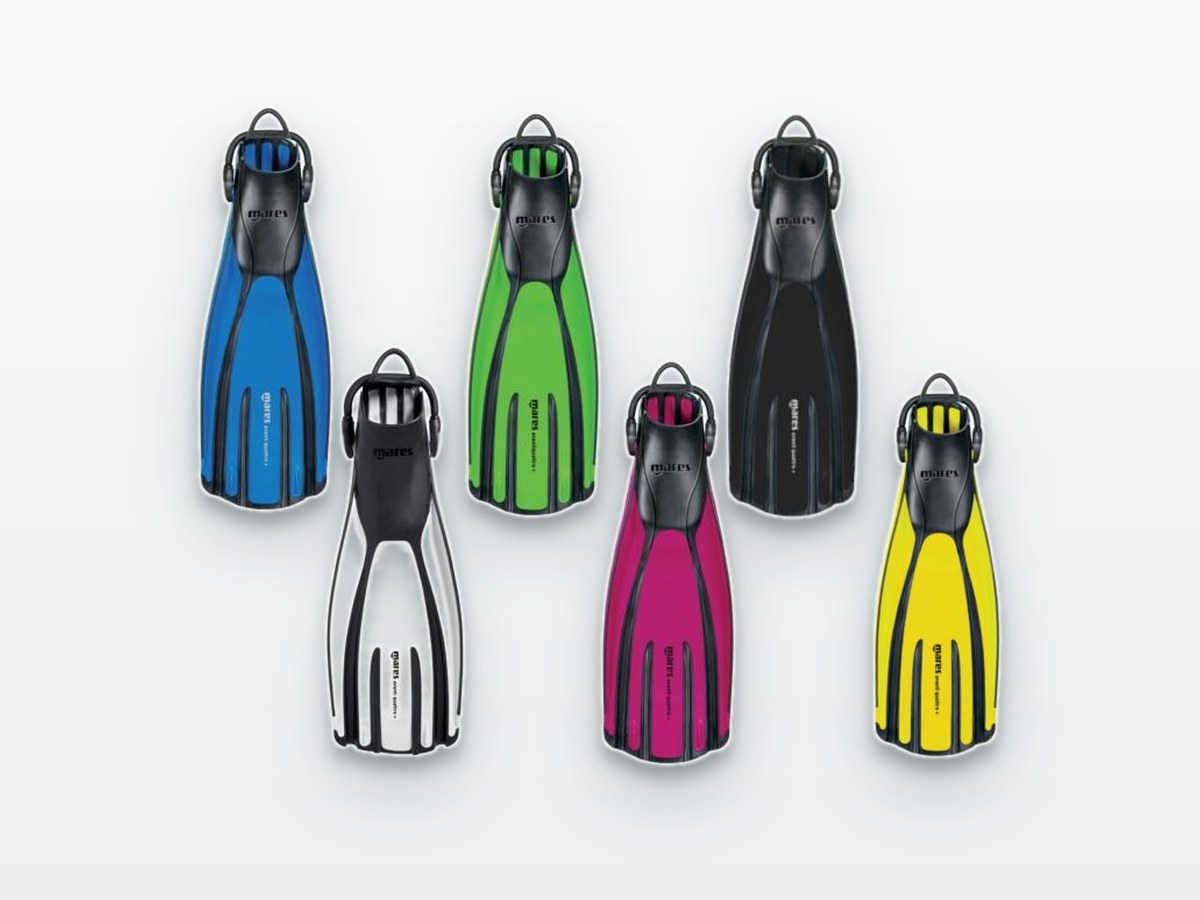
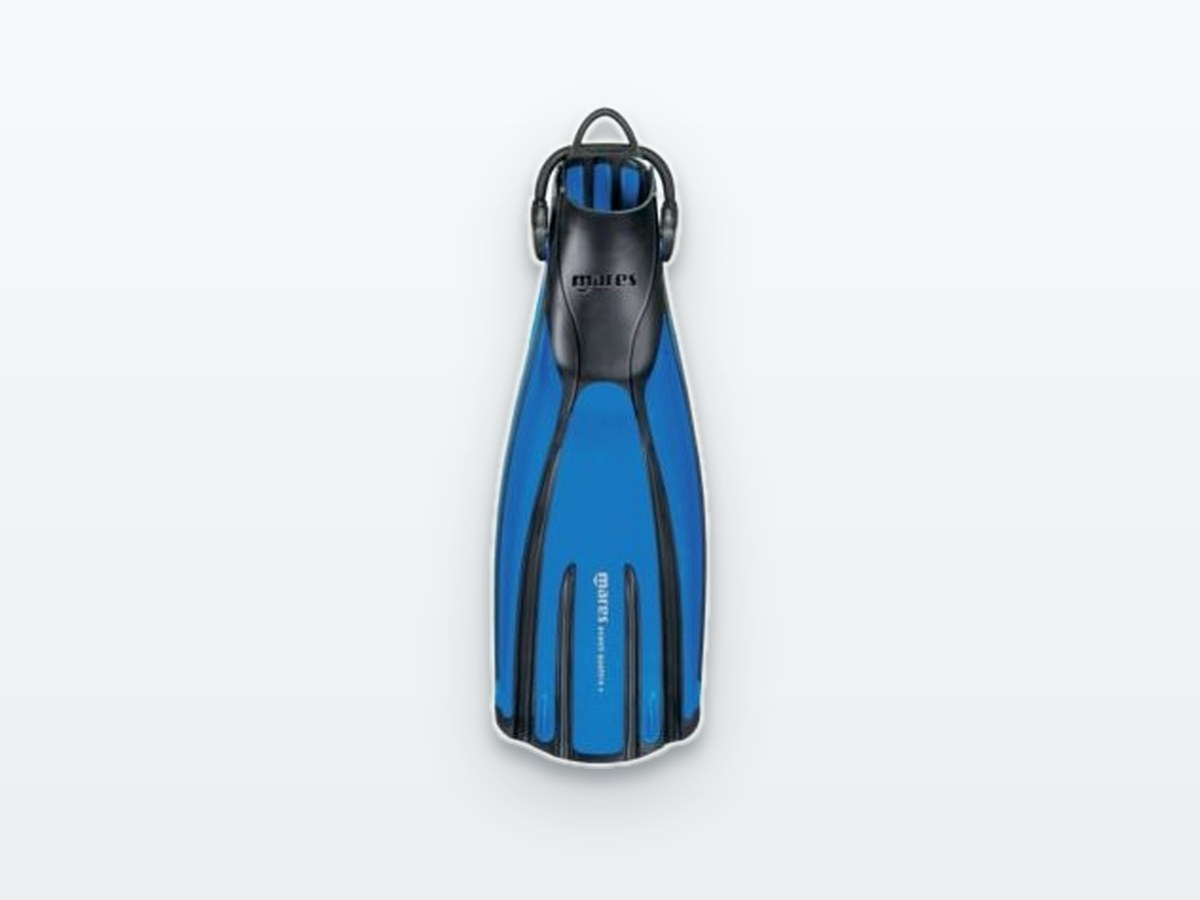
Gear tab: category-only selector; split-photo items never show the group shot
- The gear selector now offers only 'All categories' and the six gear types;
  it filters the type->brand directory. Buyer's-guide articles open solely
  from the Articles tab (wetsuit CTAs and #gear deep links still route to
  the right article via GEAR_ARTICLE).
- Avanti Quattro+ and Bare shorty list/thumbnail images are now their first
  colourway, not the multi-colour group photo — a colour appears only when
  its swatch is selected.

Claude-Session: https://claude.ai/code/session_019mzjgqXinBZNqaFxx7qsum

diff --git a/diving-site.html b/diving-site.html
@@ -1339,7 +1339,7 @@ svg.leaflet-image-layer.leaflet-interactive path {
 
   <section id="view-gear" class="hidden">
     <div class="controls">
-      <div class="field"><label>Buyer&rsquo;s guide</label><select id="gearCat"><option value="">Browse all gear by brand</option></select></div>
+      <div class="field"><label>Category</label><select id="gearCat"><option value="">All categories</option></select></div>
     </div>
     <div id="gearGrid" class="grid"></div>
   </section>
@@ -2034,7 +2034,7 @@ function initControls(){
   ['calSort','calShow'].forEach(function(id){
     document.getElementById(id).addEventListener('change',renderCalendar);
   });
-  document.getElementById('gearCat').addEventListener('change',renderGear);
+  document.getElementById('gearCat').addEventListener('change',function(){GEAR_ARTICLE='';renderGear();});
   // Any planner selection reveals the result views and refreshes the active one.
   ['planPeriod','planDiff','planWater','planCur','planTemp'].forEach(function(id){
     var e=document.getElementById(id);
@@ -2242,7 +2242,7 @@ function gotoWetsuit(th){
   showTab('gear');
   var sel=document.getElementById('gearCat');
   renderGear();                                   // ensure category options exist
-  sel.value='Wetsuits'; GEAR_THICK=th; renderGear();
+  sel.value='Wetsuits'; GEAR_ARTICLE='Wetsuits'; GEAR_THICK=th; renderGear();
   window.scrollTo({top:0,behavior:'smooth'});
 }
 // deep link e.g. #gear-wetsuits-5mm (used by the static destination SEO pages)
@@ -2255,7 +2255,7 @@ function handleHash(){
   if(parts[1]&&GEAR_GUIDE&&GEAR_GUIDE.categories){
     var slug=parts[1].toLowerCase();
     var cat=GEAR_GUIDE.categories.filter(function(c){return c.category.toLowerCase().replace(/[^a-z0-9]/g,'')===slug;})[0];
-    if(cat){ sel.value=cat.category; if(parts[2]) GEAR_THICK=parts[2]; renderGear(); }
+    if(cat){ sel.value=cat.category; GEAR_ARTICLE=cat.category; if(parts[2]) GEAR_THICK=parts[2]; renderGear(); }
   }
   window.scrollTo({top:0});
 }
@@ -2720,7 +2720,9 @@ function thickNav(c){
 }
 function openGearArticle(cat){
   showTab('gear');
-  var sel=document.getElementById('gearCat'); sel.value=cat; GEAR_THICK=null; renderGear();
+  GEAR_ARTICLE=cat||''; GEAR_THICK=null;
+  if(!cat) document.getElementById('gearCat').value='';
+  renderGear();
   window.scrollTo({top:0,behavior:'smooth'});
 }
 /* Gear tab: every product listed under its brand (the ranked buyer's-guide
@@ -2736,8 +2738,9 @@ function brandOf(name){
   }
   return name.split(' ')[0];
 }
-function gearBrandDir(){
-  return GEAR_GUIDE.categories.map(function(c){
+var GEAR_ARTICLE='';   /* set only when a buyer's-guide article is opened from Articles */
+function gearBrandDir(onlyCat){
+  return GEAR_GUIDE.categories.filter(function(c){return !onlyCat||c.category===onlyCat;}).map(function(c){
     var seen={}, brands={}, n=0;
     var all=(c.items||[]).slice();
     (c.thickness_groups||[]).forEach(function(gr){all=all.concat(gr.items||[]);});
@@ -2764,19 +2767,19 @@ function renderGear(){
   var sel=document.getElementById('gearCat');
   if(!GEAR_GUIDE||!GEAR_GUIDE.categories){document.getElementById('gearGrid').innerHTML='<div class="empty">Gear guide could not load.</div>';return;}
   if(sel.options.length<=1) GEAR_GUIDE.categories.forEach(function(c){var o=document.createElement('option');o.value=c.category;o.textContent=c.category;sel.appendChild(o);});
-  var cat=sel.value, g=document.getElementById('gearGrid');
+  var cat=GEAR_ARTICLE, g=document.getElementById('gearGrid');
   function cmpScope(scope,items){ if(scope!==CMP_SCOPE){CMP=[];CMP_SCOPE=scope;} GEAR_VIEW={items:items||[]}; }
   if(!cat){
     cmpScope('',[]);
     g.innerHTML='<div class="article" style="grid-column:1/-1;margin-bottom:6px">'+
       '<p class="gentry-review" style="max-width:80ch;margin-top:0">'+(GEAR_GUIDE.intro||'')+
-      ' Every product has its own page — photos, prices and specs. The ranked buyer’s guides now live under <a href="#" onclick="showTab(\'destinations\');return false;">Articles</a>.</p>'+
-      gearBrandDir()+'</div>';
+      ' Every product has its own page — photos, prices and specs. The ranked buyer’s guides live under <a href="#" onclick="showTab(\'destinations\');return false;">Articles</a>.</p>'+
+      gearBrandDir(sel.value)+'</div>';
   }else{
     var c=GEAR_GUIDE.categories.filter(function(x){return x.category===cat;})[0];
     if(!c){g.innerHTML='';return;}
-    var head='<p class="meta"><a href="#" onclick="openGearArticle(\'\');return false;">← All buyer’s guides</a></p>';
-    var foot='<p class="meta" style="margin-top:16px"><a href="#" onclick="openGearArticle(\'\');return false;">← Back to all buyer’s guides</a></p>';
+    var head='<p class="meta"><a href="#" onclick="showTab(\'destinations\');return false;">← All articles</a> &nbsp;·&nbsp; <a href="#" onclick="openGearArticle(\'\');return false;">Browse gear by category →</a></p>';
+    var foot='<p class="meta" style="margin-top:16px"><a href="#" onclick="showTab(\'destinations\');return false;">← Back to all articles</a></p>';
     var affNote='<p class="aff-note">'+ico('current',12)+' Prices are indicative — check the live price at the retailer. We may earn a commission at no extra cost to you, and it never changes a ranking.</p>';
     if(c.thickness_groups){
       // one buyer's guide split into thickness pages, chosen with a pill nav

diff --git a/index.html b/index.html
@@ -676,7 +676,7 @@
 
   <section id="view-gear" class="hidden">
     <div class="controls">
-      <div class="field"><label>Buyer&rsquo;s guide</label><select id="gearCat"><option value="">Browse all gear by brand</option></select></div>
+      <div class="field"><label>Category</label><select id="gearCat"><option value="">All categories</option></select></div>
     </div>
     <div id="gearGrid" class="grid"></div>
   </section>
@@ -1099,7 +1099,7 @@ function initControls(){
   ['calSort','calShow'].forEach(function(id){
     document.getElementById(id).addEventListener('change',renderCalendar);
   });
-  document.getElementById('gearCat').addEventListener('change',renderGear);
+  document.getElementById('gearCat').addEventListener('change',function(){GEAR_ARTICLE='';renderGear();});
   // Any planner selection reveals the result views and refreshes the active one.
   ['planPeriod','planDiff','planWater','planCur','planTemp'].forEach(function(id){
     var e=document.getElementById(id);
@@ -1307,7 +1307,7 @@ function gotoWetsuit(th){
   showTab('gear');
   var sel=document.getElementById('gearCat');
   renderGear();                                   // ensure category options exist
-  sel.value='Wetsuits'; GEAR_THICK=th; renderGear();
+  sel.value='Wetsuits'; GEAR_ARTICLE='Wetsuits'; GEAR_THICK=th; renderGear();
   window.scrollTo({top:0,behavior:'smooth'});
 }
 // deep link e.g. #gear-wetsuits-5mm (used by the static destination SEO pages)
@@ -1320,7 +1320,7 @@ function handleHash(){
   if(parts[1]&&GEAR_GUIDE&&GEAR_GUIDE.categories){
     var slug=parts[1].toLowerCase();
     var cat=GEAR_GUIDE.categories.filter(function(c){return c.category.toLowerCase().replace(/[^a-z0-9]/g,'')===slug;})[0];
-    if(cat){ sel.value=cat.category; if(parts[2]) GEAR_THICK=parts[2]; renderGear(); }
+    if(cat){ sel.value=cat.category; GEAR_ARTICLE=cat.category; if(parts[2]) GEAR_THICK=parts[2]; renderGear(); }
   }
   window.scrollTo({top:0});
 }
@@ -1785,7 +1785,9 @@ function thickNav(c){
 }
 function openGearArticle(cat){
   showTab('gear');
-  var sel=document.getElementById('gearCat'); sel.value=cat; GEAR_THICK=null; renderGear();
+  GEAR_ARTICLE=cat||''; GEAR_THICK=null;
+  if(!cat) document.getElementById('gearCat').value='';
+  renderGear();
   window.scrollTo({top:0,behavior:'smooth'});
 }
 /* Gear tab: every product listed under its brand (the ranked buyer's-guide
@@ -1801,8 +1803,9 @@ function brandOf(name){
   }
   return name.split(' ')[0];
 }
-function gearBrandDir(){
-  return GEAR_GUIDE.categories.map(function(c){
+var GEAR_ARTICLE='';   /* set only when a buyer's-guide article is opened from Articles */
+function gearBrandDir(onlyCat){
+  return GEAR_GUIDE.categories.filter(function(c){return !onlyCat||c.category===onlyCat;}).map(function(c){
     var seen={}, brands={}, n=0;
     var all=(c.items||[]).slice();
     (c.thickness_groups||[]).forEach(function(gr){all=all.concat(gr.items||[]);});
@@ -1829,19 +1832,19 @@ function renderGear(){
   var sel=document.getElementById('gearCat');
   if(!GEAR_GUIDE||!GEAR_GUIDE.categories){document.getElementById('gearGrid').innerHTML='<div class="empty">Gear guide could not load.</div>';return;}
   if(sel.options.length<=1) GEAR_GUIDE.categories.forEach(function(c){var o=document.createElement('option');o.value=c.category;o.textContent=c.category;sel.appendChild(o);});
-  var cat=sel.value, g=document.getElementById('gearGrid');
+  var cat=GEAR_ARTICLE, g=document.getElementById('gearGrid');
   function cmpScope(scope,items){ if(scope!==CMP_SCOPE){CMP=[];CMP_SCOPE=scope;} GEAR_VIEW={items:items||[]}; }
   if(!cat){
     cmpScope('',[]);
     g.innerHTML='<div class="article" style="grid-column:1/-1;margin-bottom:6px">'+
       '<p class="gentry-review" style="max-width:80ch;margin-top:0">'+(GEAR_GUIDE.intro||'')+
-      ' Every product has its own page — photos, prices and specs. The ranked buyer’s guides now live under <a href="#" onclick="showTab(\'destinations\');return false;">Articles</a>.</p>'+
-      gearBrandDir()+'</div>';
+      ' Every product has its own page — photos, prices and specs. The ranked buyer’s guides live under <a href="#" onclick="showTab(\'destinations\');return false;">Articles</a>.</p>'+
+      gearBrandDir(sel.value)+'</div>';
   }else{
     var c=GEAR_GUIDE.categories.filter(function(x){return x.category===cat;})[0];
     if(!c){g.innerHTML='';return;}
-    var head='<p class="meta"><a href="#" onclick="openGearArticle(\'\');return false;">← All buyer’s guides</a></p>';
-    var foot='<p class="meta" style="margin-top:16px"><a href="#" onclick="openGearArticle(\'\');return false;">← Back to all buyer’s guides</a></p>';
+    var head='<p class="meta"><a href="#" onclick="showTab(\'destinations\');return false;">← All articles</a> &nbsp;·&nbsp; <a href="#" onclick="openGearArticle(\'\');return false;">Browse gear by category →</a></p>';
+    var foot='<p class="meta" style="margin-top:16px"><a href="#" onclick="showTab(\'destinations\');return false;">← Back to all articles</a></p>';
     var affNote='<p class="aff-note">'+ico('current',12)+' Prices are indicative — check the live price at the retailer. We may earn a commission at no extra cost to you, and it never changes a ranking.</p>';
     if(c.thickness_groups){
       // one buyer's guide split into thickness pages, chosen with a pill nav

diff --git a/scripts/studio_gear.py b/scripts/studio_gear.py
@@ -273,8 +273,10 @@ def main():
                     h = hero(piece)
                     h.save(os.path.join(herodir, f"{base}--{cname.lower()}.jpg"), quality=88)
                     print(f"    split: {base} -> {cname}")
-                # default hero = first colour
+                # default hero AND list image = first colour (the group shot
+                # must never appear — a colour only shows when selected)
                 hero(parts[0]).save(os.path.join(herodir, base + ".jpg"), quality=88)
+                studio(parts[0]).save(os.path.join(DST, base + ".jpg"), quality=88)
         else:
             hero(cut).save(os.path.join(herodir, base + ".jpg"), quality=88)
         done.append(name)